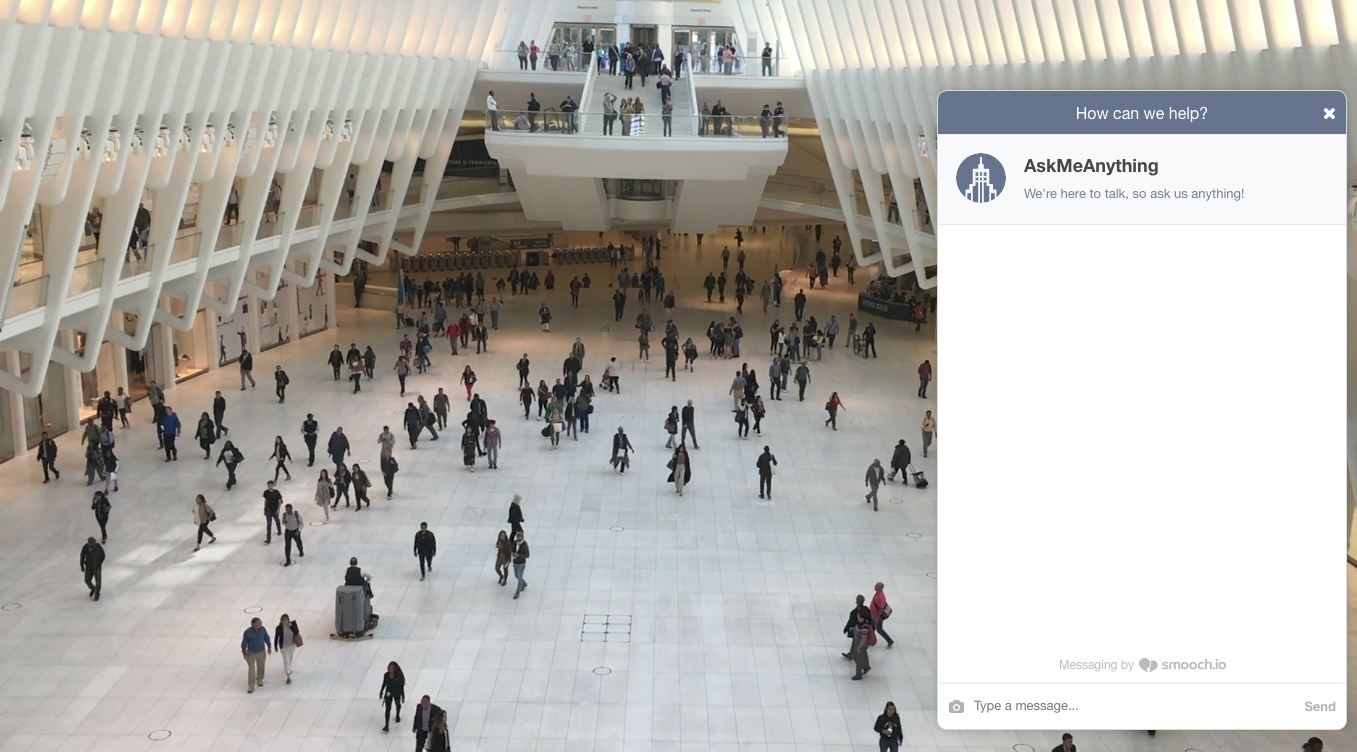
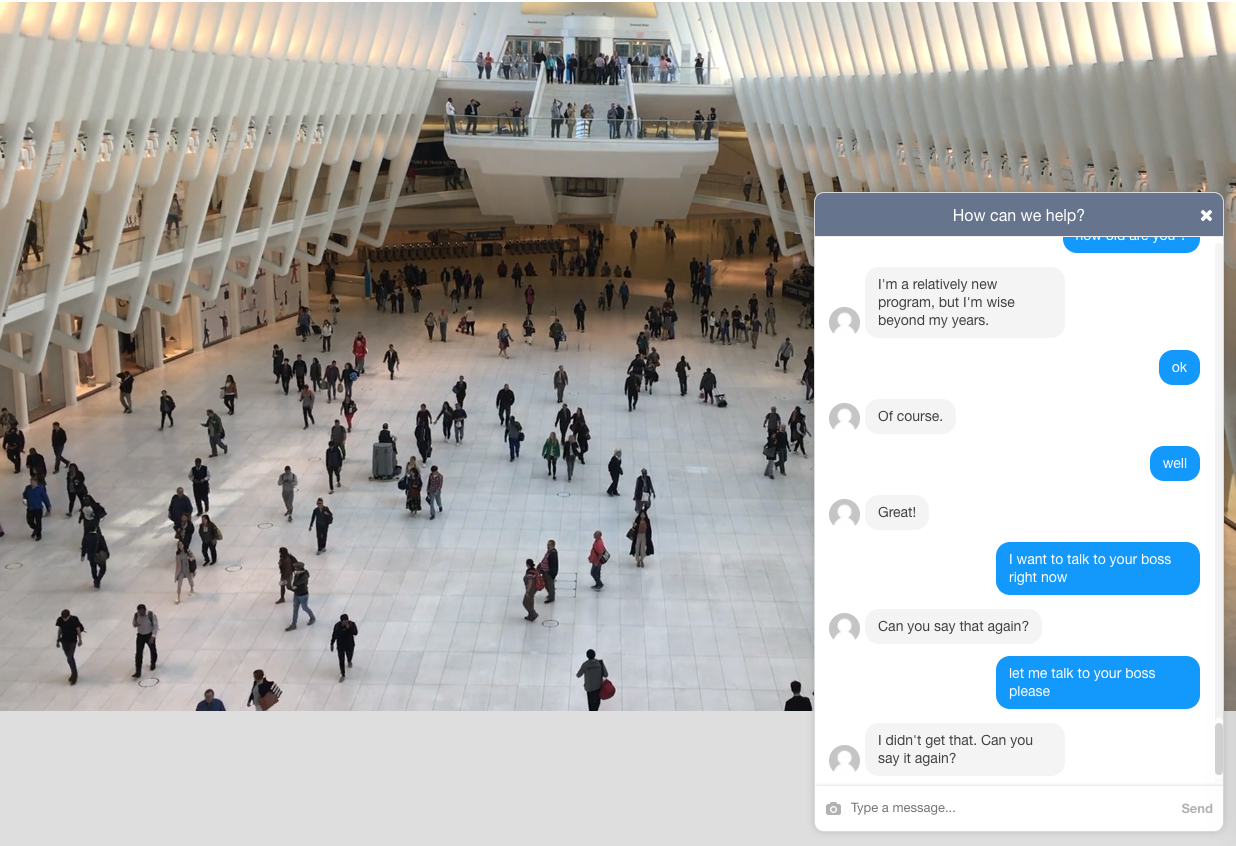
Documentation

diff --git a/app.js b/app.js
@@ -1,31 +1,69 @@
-let apiai = require('apiai');
+const _ = require('lodash');
+const express = require('express');
+const bodyParser = require('body-parser');
+
+const app = express();
+app.use(bodyParser.json());
 
 let secrets = require('./config/secrets.json');
-let app = apiai(secrets.dialogflow.clientAccessToken);
 
-const express = require('express');
-const app2 = express();
+const Apiai = require('apiai');
+let dialog = Apiai(secrets.dialogflow.clientAccessToken);
 
-app2.post('/', function (req, res) {
+const Smooch = require('smooch-core');
+const smooch = new Smooch({
+    keyId: secrets.smooch.keyId,
+    secret: secrets.smooch.secretKey,
+    scope: 'app'
+});
+
+// Default GET route for the web messenger client
+app.get('/', function(req, res){
+  res.sendFile(__dirname + '/index.html');
+});
+
+app.use('/coverr', express.static(__dirname + '/coverr'));
+app.use('/smooch', express.static(__dirname + '/smooch'));
+
+// POST webhook route for Smooch
+app.post('/', function (req, res) {
   let json = req.body;
-  let textQuery = json.textQuery;
-  let uniqueSessionId = json.uniqueSessionId;
-  // let textQuery = 'How old are you?';
-  // let uniqueSessionId = '1234';
 
-  let request = app.textRequest(textQuery, { sessionId: uniqueSessionId });
+  let textQuery = json.messages ? json.messages[0].text : "";
+  let appUserId = json.appUser._id;
 
-  request.on('response', function(response) {
-    res.send(response);
+  let request = dialog.textRequest(textQuery, { sessionId: appUserId });
+
+  request.on('response', function(dialogRes) {
+    smooch.appUsers.sendMessage(appUserId, {
+      type: 'text',
+      text: dialogRes.result.fulfillment.speech,
+      role: 'appMaker'
+    })
+    .then((smoochRes) => {
+      res.send({
+        dialogFlow: dialogRes,
+        smooch: smoochRes
+      });
+    })
+    .catch((err) => {
+      res.status(500).send({
+        dialogFlow: dialogRes,
+        smooch: err
+      });
+    });
   });
 
   request.on('error', function(error) {
-    res.status(500).send(error);
+    res.status(500).send({
+      dialogFlow: error,
+      smooch: ""
+    });
   });
 
   request.end();
 });
 
-app2.listen(3000, function () {
+app.listen(3000, function () {
   console.log('Example app listening on port 3000!')
 });

diff --git a/README.md b/README.md
@@ -1,5 +1,5 @@
 # ama-bot
-Bot ask for asking me anything
+Bot ask for asking me anything. (Smooch.io + Dialogflow + GitHub Issues + Node.js)
 
 Test the bot here: https://mycaule.github.io/ama-bot/
 
@@ -9,13 +9,33 @@ Proof of concept of a chatbot with integrated backoffices:
  - Dialogflow for user intent configuration,
  - GitHub issues for fallbacks.
 
+## Setup
+
+Fill in the secrets file with API keys `config/secrets.json`.
+
+```
+npm install
+nodemon app.js
+ngrok http 3000
+```
+
+Configure the following two Smooch integration in their web interface:
+- Web messenger
+- Webhooks
+
+## Routes
+
+Available HTTP routes are:
+- `GET /`: A web interface for the chatbot,
+- `POST /`: A webhook implementing Smooch and Dialogflow REST API calls.
+
 ## TODO
 - [x] Implement a webchat bot on Smooch.io
-- [ ] [Dialogflow](https://dialogflow.com) and Smalltalk Intent
+- [x] [Dialogflow](https://dialogflow.com) and Smalltalk Intent
 - [ ] Internet Knowledge for questions off topic
   - Google Answer box
   - [DuckDuckGo Instant Answer API](https://duckduckgo.com/api)
   - [Wolfram API](https://products.wolframalpha.com/api/)
 - [ ] [Google API](https://www.npmjs.com/package/googleapis)
   - Calendar integration
-- [ ] Fill in [Github Issue](https://developer.github.com/v3/issues/) for unanwered questions like in [sindresorhus/ama](https://github.com/sindresorhus/ama)
+- [ ] Fill in [Github Issue](https://developer.github.com/v3/issues/) for unanswered questions like in [sindresorhus/ama](https://github.com/sindresorhus/ama)
